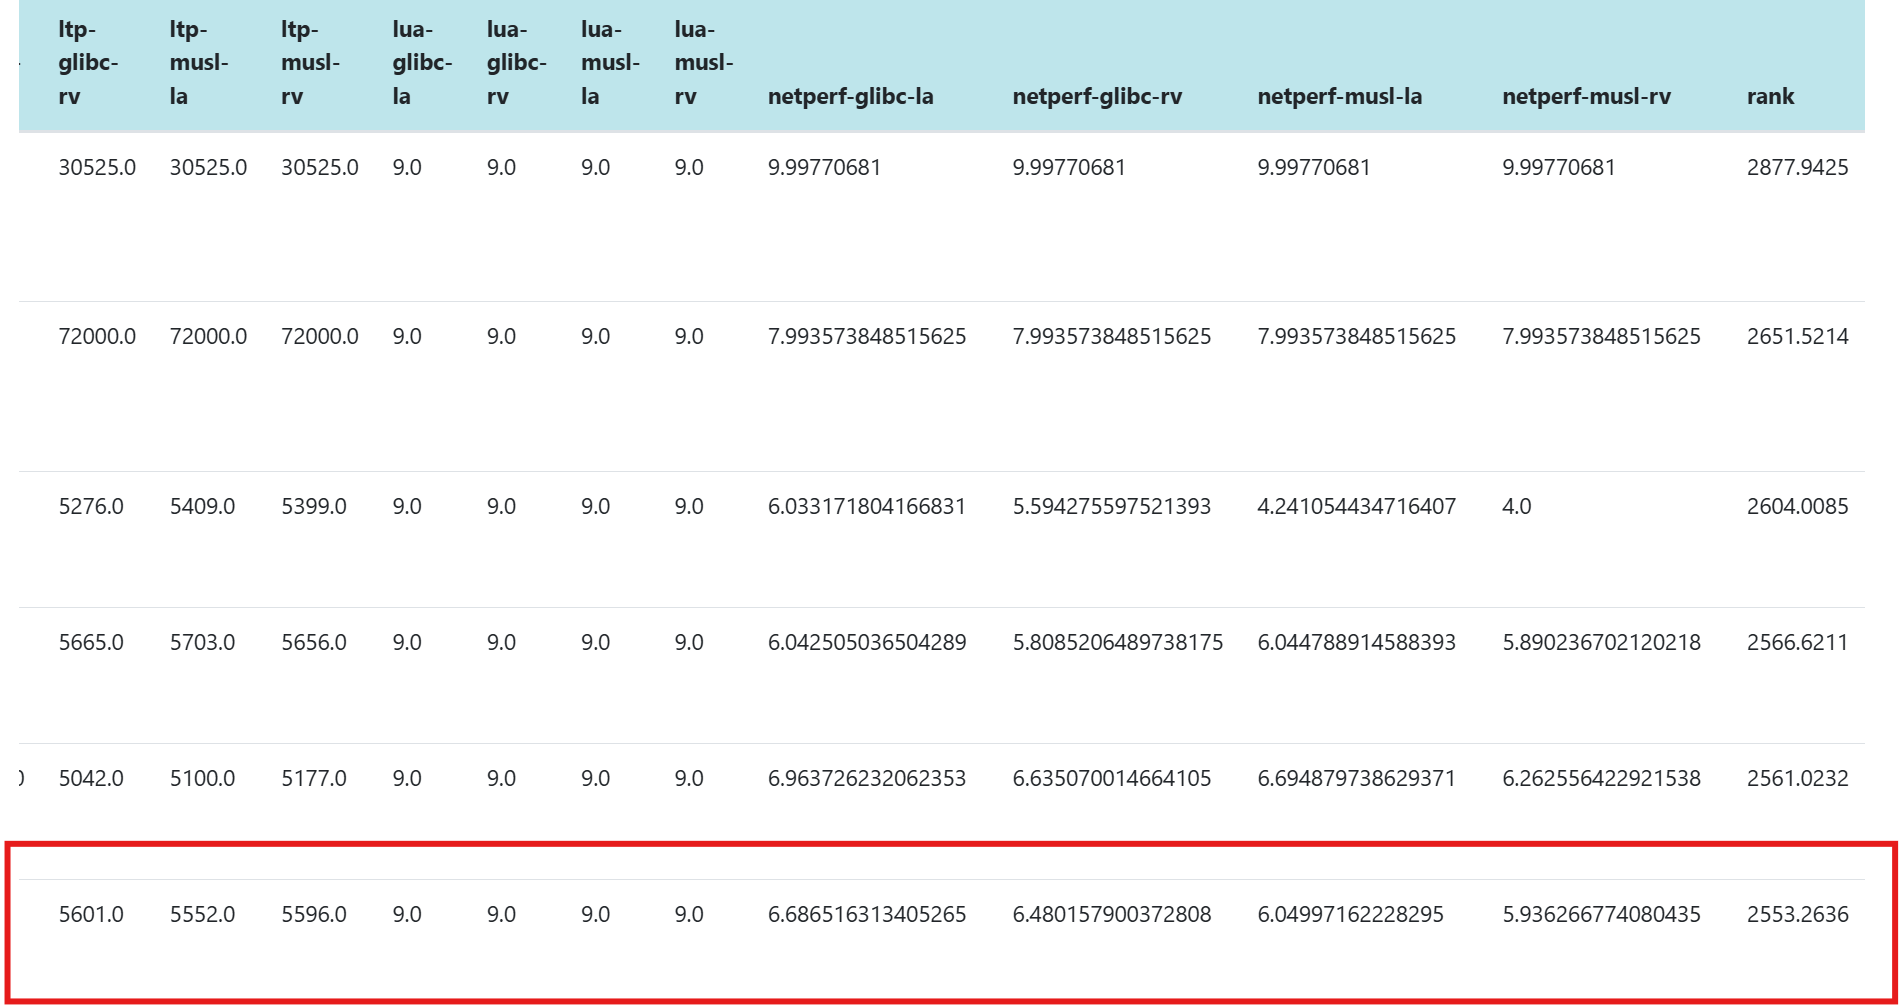
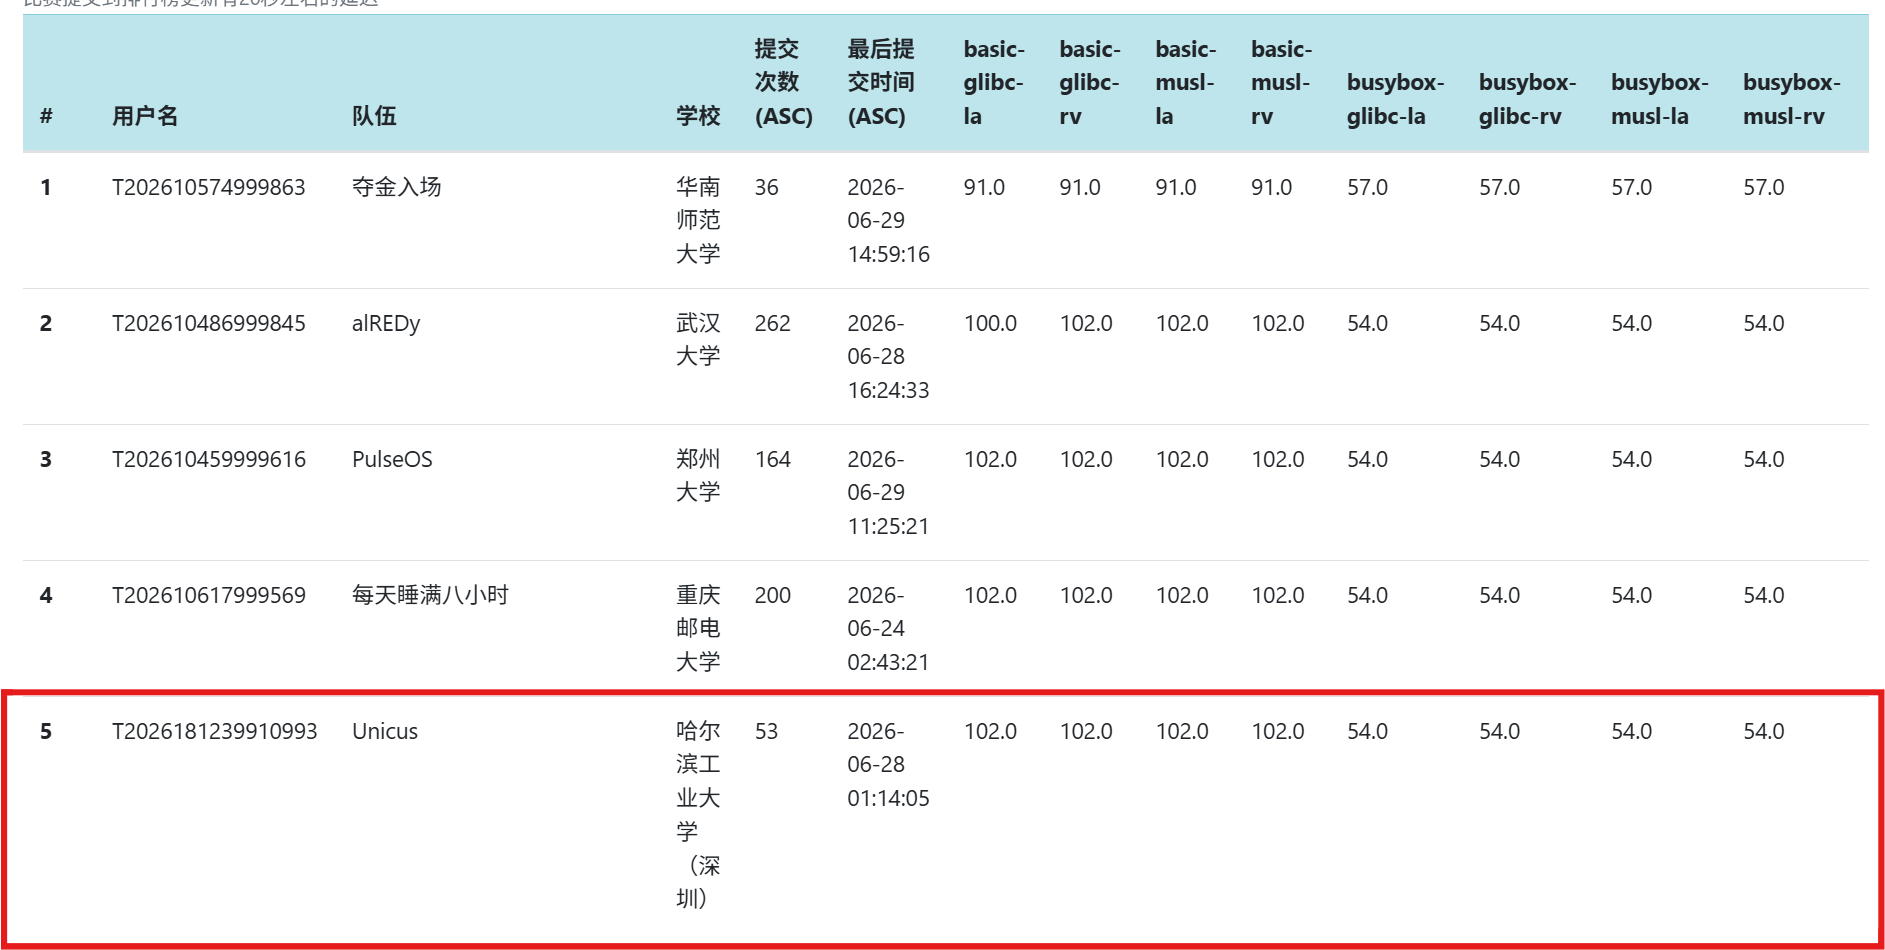
更新排行榜图片

diff --git a/README.md b/README.md
@@ -6,7 +6,7 @@
 
 ## 完成情况
 ### 初赛
-Kairix已通过初赛大部分测试点，并在排行榜上位于前列：
+截止6月29日17时13分，Kairix已通过初赛大部分测试点，并在排行榜上位于前列：
 
 ![初赛排行榜1](./docs/初赛排行榜1.png)
 
